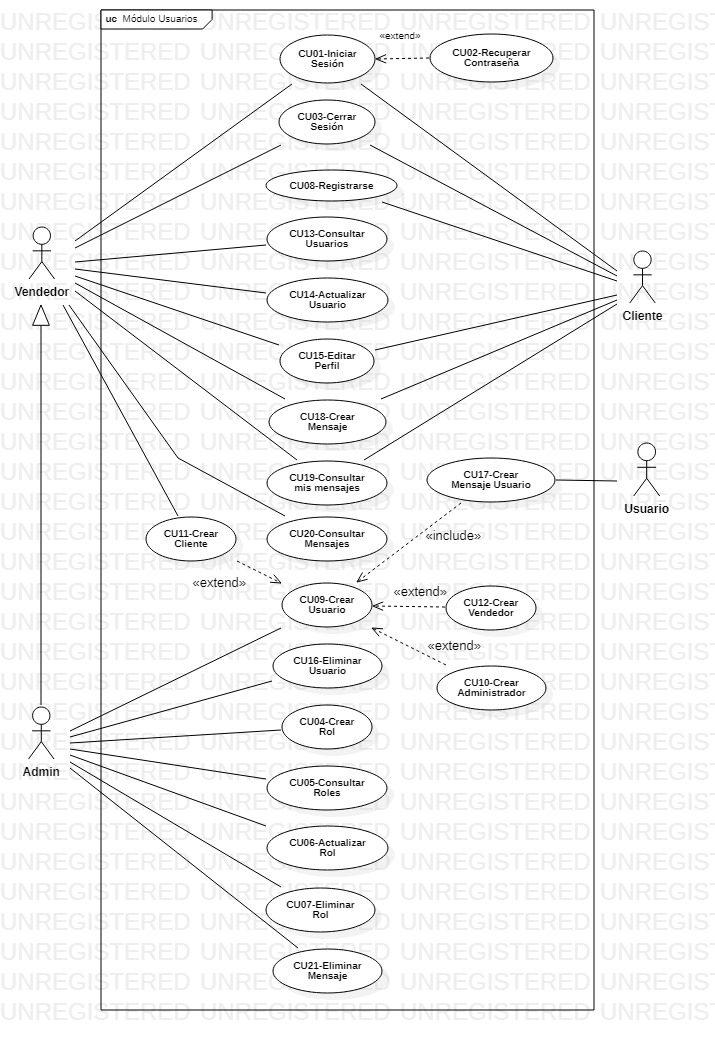
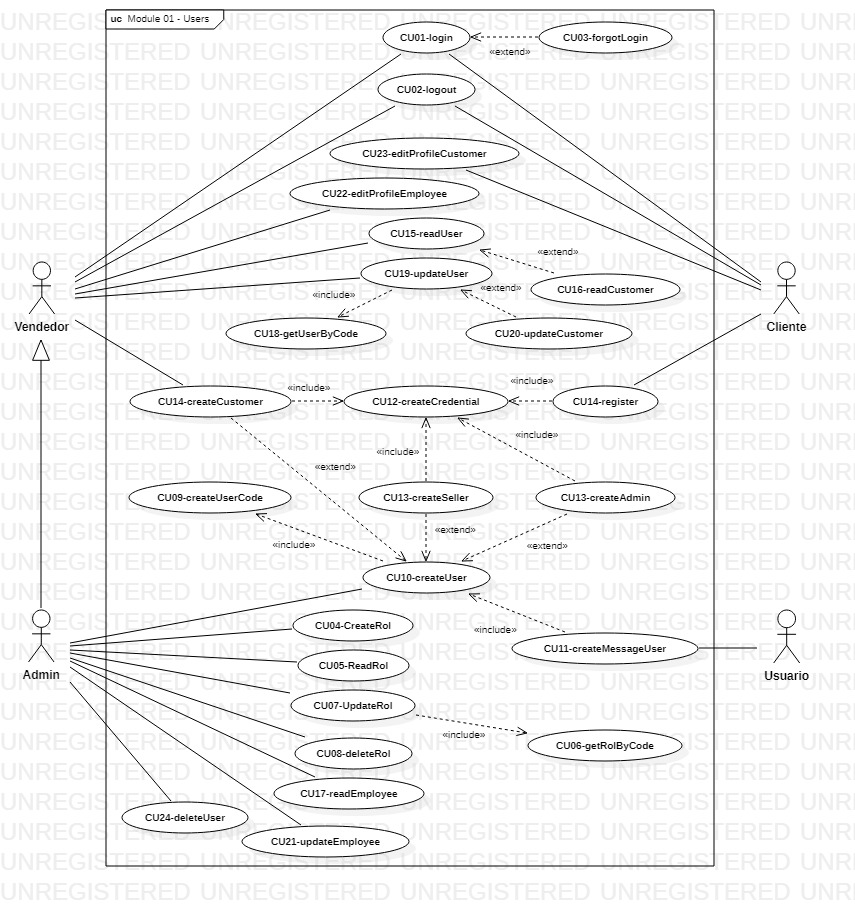
05 - Crear Modelo Roles (POO - CRUD)

diff --git a/models/User.php b/models/User.php
@@ -39,12 +39,28 @@
             $this->userLastName = $userLastName;
             $this->userEmail = $userEmail;
         }
-        public function __construct8($userCode,$userName,$userLastName,$userEmail,$messageDate, $messageTo,$messageSubject,$messageDescription){            
+        public function __construct8($userCode,$userName,$userLastName,$userEmail,$messageDate,$messageTo,$messageSubject,$messageDescription){            
             $this->userCode = $userCode;
             $this->userName = $userName;
             $this->userLastName = $userLastName;
             $this->userEmail = $userEmail;
             $this->message = new Message($userCode, $messageDate, $messageTo, $messageSubject, $messageDescription);
+        }
+        # Mensaje del Usuario        
+        public function getMessageDate(){
+            return $this->message->getMessageDate();
+        }
+        public function getMessageTo(){
+            return $this->message->getMessageTo();
+        }
+        public function getMessageSubject(){
+            return $this->message->getMessageSubject();
+        }
+        public function getMessageDescription(){
+            return $this->message->getMessageDescription();
+        }
+        public function sendMessageUser(){
+            $this->message->createMessageUser();
         }       
         # Código del Rol
         public function setRolCode($rolCode){
@@ -87,29 +103,13 @@
         }
         public function getUserEmail(){
             return $this->userEmail;
-        }
-        # Mensaje del Usuario        
-        public function getMessageDate(){
-            return $this->message->getMessageDate();
-        }
-        public function getMessageTo(){
-            return $this->message->getMessageTo();
-        }
-        public function getMessageSubject(){
-            return $this->message->getMessageSubject();
-        }
-        public function getMessageDescription(){
-            return $this->message->getMessageDescription();
-        }
-        public function sendMessageUser(){
-            $this->message->createMessageUser();
-        }
+        }        
 
 /*  ---------------------------------------------------------------------------  */
-/*  ------------------------------- CASOS DE USO ------------------------------  */
+/*  -------------------------- CASOS DE USO USUARIO ---------------------------  */
 /*  ---------------------------------------------------------------------------  */
         
-        # CU04 - Crear Rol
+        # CU01 - Crear Rol
         public function createRol(){
             try {                
                 $sql = 'INSERT INTO ROLES VALUES (:rolCode,:rolName)';                
@@ -121,7 +121,7 @@
                 die($e->getMessage());
             }
         }
-        # CU05 - Consultar Roles
+        # CU02 - Consultar Roles
         public function readRol(){
             try {
                 $rolList = [];
@@ -137,8 +137,8 @@
             } catch (Exception $e) {
                 die($e->getMessage());
             }
-        }
-        # CU06_01 - Obtener el código del Rol
+        }        
+        # CU03 - Obtener el código del Rol
         public function getRolByCode($rolCode){
             try {
                 $sql = "SELECT * FROM ROLES WHERE rol_code=:rolCode";
@@ -155,7 +155,7 @@
                 die($e->getMessage());
             }
         }
-        # CU06 - Actualizar Rol
+        # CU04 - Actualizar Rol
         public function updateRol(){
             try {                
                 $sql = 'UPDATE ROLES SET
@@ -169,8 +169,8 @@
             } catch (Exception $e) {
                 die($e->getMessage());
             }
-        }
-        # CU07 - Eliminar Rol
+        }        
+        # CU05 - Eliminar Rol
         public function deleteRol($rolCode){
             try {
                 $sql = 'DELETE FROM ROLES WHERE rol_code = :rolCode';
@@ -181,7 +181,7 @@
                 die($e->getMessage());
             }            
         }
-        # CU09_01 - Crear el consecutivo de usuario
+        # CU06 - Crear código de usuario
         public function createUserCode(){
             try {
                 $userCreate = $_GET["a"];
@@ -224,8 +224,8 @@
             } catch (Exception $e) {
                 die($e->getMessage());
             }
-        }         
-        # CU09 - Crear Usuario
+        }
+        # CU07 - Crear Usuario
         public function createUser(){
             try {
                 $userCreate = $_GET["a"];
@@ -256,7 +256,7 @@
                 die($e->getMessage());
             }
         }
-        # CU13 - Consultar Usuarios
+        # CU16 - Consultar Usuarios
         public function readUser(){
             try {
                 $userList = [];
@@ -276,7 +276,7 @@
                 die($e->getMessage());
             }
         }
-        # CU014_01 - Obtener el código del Usuario
+        # CU18 - Obtener el código del Usuario
         public function getUserByCode($userCode){
             try {
                 $sql = "SELECT * FROM USERS WHERE user_code=:userCode";
@@ -296,7 +296,7 @@
                 die($e->getMessage());
             }
         }
-        # CU14 - Actualizar Usuario
+        # CU19 - Actualizar Usuario
         public function updateUser(){
             try {
                 $sql = 'UPDATE USERS SET                                
@@ -314,7 +314,7 @@
                 die($e->getMessage());
             }
         }
-        # CU16 - Eliminar Usuario
+        # CU19 - Eliminar Usuario
         public function deleteUser($userCode){
             try {
                 $sql = 'DELETE FROM USERS WHERE user_code = :userCode';
@@ -324,6 +324,6 @@
             } catch (Exception $e) {
                 die($e->getMessage());
             }
-        }        
+        }
     }
 ?>

diff --git a/models/Credential.php b/models/Credential.php
@@ -89,7 +89,12 @@
         public function getCredentialStatus(){
             return $this->credentialStatus;
         }
-        # CU011 - Crear Credencial
+
+/*  ---------------------------------------------------------------------------  */
+/*  ------------------------- CASOS DE USO CREDENCIAL -------------------------  */
+/*  ---------------------------------------------------------------------------  */
+
+        # CU012 - Crear Credencial
         public function createCredential(){
             try {
                 $sql = "INSERT INTO CREDENTIALS VALUES (
@@ -111,7 +116,7 @@
             } catch (Exception $e) {
                 die($e->getMessage());
             }
-        } 
+        }       
         # CU01 - Iniciar Sesión
         public function login(){}
         # CU03 - Cerrar Sesión

diff --git a/models/Message.php b/models/Message.php
@@ -65,8 +65,8 @@
 /*  ------------------------------- CASOS DE USO ------------------------------  */
 /*  ---------------------------------------------------------------------------  */
 
-        # CU017 - Crear Mensaje Usuario
-        public function createMessageUser(){
+        # CU099 - Crear Mensaje Usuario
+        public function createMessage(){
             try {
                 $sql = 'INSERT INTO MESSAGES VALUES (
                             :userCode,
@@ -86,10 +86,6 @@
                 die($e->getMessage());
             }
         }
-        # CU018 - Crear Mensaje
-        public function createMessage(){}
-        # CU19 - Consultar mis Mensajes
-        public function readMessageProfile(){}
         # CU20 - Consultar Mensajes
         public function readMessage(){
             try {

diff --git a/models/Customer.php b/models/Customer.php
@@ -33,7 +33,12 @@
         public function getCustomerBirthDate(){
             return $this->customerBirthDate;
         }
-        # CU012 - Crear Cliente
+
+/*  ---------------------------------------------------------------------------  */
+/*  -------------------------- CASOS DE USO EMPLEADO --------------------------  */
+/*  ---------------------------------------------------------------------------  */
+        
+        # CU014 - Crear Cliente o Registrarse (cliente)
         public function createCustomer(){
             try {
                 $sql = "INSERT INTO CUSTOMERS VALUES (
@@ -48,5 +53,7 @@
                 die($e->getMessage());
             }
         }
+        # CU014 - Consultar Clientes
+        public function readCustomer(){}
     }
 ?>

diff --git a/models/Employee.php b/models/Employee.php
@@ -33,8 +33,13 @@
         }
         public function getEmployeeSalary(){
             return $this->employeeSalary;
-        }        
-        # CU012 - Crear Empleado (Vendedor o Administrador)
+        }
+
+/*  ---------------------------------------------------------------------------  */
+/*  -------------------------- CASOS DE USO EMPLEADO --------------------------  */
+/*  ---------------------------------------------------------------------------  */
+
+        # CU013 - Crear Empleado (Vendedor o Administrador)
         public function createEmployee(){
             try {
                 $sql = "INSERT INTO EMPLOYEES VALUES (
